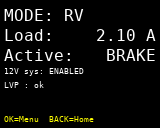
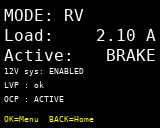
UI: Home adds OCP line; OCP modal OK-only; Telemetry adds ocp flag; docs/screens updated

Changed region(s): [[0.2188, 0.75, 0.4062, 0.8125], [0.0, 0.75, 0.125, 0.8125]]

diff --git a/scripts/generate_screens.py b/scripts/generate_screens.py
@@ -78,6 +78,7 @@ def save(img: Image.Image, name: str, scale: int = 1):
 
 def screen_home(mode: str = 'HD', load_a: float = 0.00, active: str = 'RF',
                 sys12_enabled: bool = True, lvp_bypass: bool = False, lvp_latched: bool = False,
+                ocp_latched: bool = False,
                 fault: str | None = None, focus_mode: bool = False):
     img = Image.new('RGB', (W, H), COLORS['BLACK'])
     d = ImageDraw.Draw(img)
@@ -89,6 +90,7 @@ def screen_home(mode: str = 'HD', load_a: float = 0.00, active: str = 'RF',
     # InputV removed; place 12V directly below Active
     y12, h12 = yActive + hActive + 2, 12
     yLvp, hLvp = y12 + h12 + 2, 12
+    yOcp, hOcp = yLvp + hLvp + 2, 12
     yHint, hHint = 114, 12
 
     # MODE line (size=2) with optional focus highlight
@@ -116,6 +118,9 @@ def screen_home(mode: str = 'HD', load_a: float = 0.00, active: str = 'RF',
         draw_text(img, d, 4, yLvp, "LVP : BYPASS", color='YELLOW', size=1)
     else:
         draw_text(img, d, 4, yLvp, f"LVP : {'ACTIVE' if lvp_latched else 'ok'}", color='WHITE', size=1)
+
+    # OCP status
+    draw_text(img, d, 4, yOcp, f"OCP : {'ACTIVE' if ocp_latched else 'ok'}", size=1)
 
     # Footer
     draw_text(img, d, 4, yHint, "OK=Menu  BACK=Home", color='YELLOW', size=1)
@@ -200,13 +205,13 @@ def screen_simple_title_body(title: str, lines: list[str]):
 
 def generate_all(scale: int = 1):
     # Home (HD)
-    save(screen_home(mode='HD', load_a=0.00, active='RF', sys12_enabled=True, lvp_bypass=False, lvp_latched=False), 'home_hd_idle', scale)
-    save(screen_home(mode='HD', load_a=3.42, active='LEFT', sys12_enabled=True, lvp_bypass=False, lvp_latched=False), 'home_hd_left', scale)
-    save(screen_home(mode='HD', load_a=1.02, active='BRAKE', sys12_enabled=True, lvp_bypass=False, lvp_latched=True), 'home_hd_brake_lvp', scale)
+    save(screen_home(mode='HD', load_a=0.00, active='RF', sys12_enabled=True, lvp_bypass=False, lvp_latched=False, ocp_latched=False), 'home_hd_idle', scale)
+    save(screen_home(mode='HD', load_a=3.42, active='LEFT', sys12_enabled=True, lvp_bypass=False, lvp_latched=False, ocp_latched=False), 'home_hd_left', scale)
+    save(screen_home(mode='HD', load_a=1.02, active='BRAKE', sys12_enabled=True, lvp_bypass=False, lvp_latched=True, ocp_latched=False), 'home_hd_brake_lvp', scale)
 
     # Home (RV) with MODE focus
-    save(screen_home(mode='RV', load_a=0.55, active='RF', sys12_enabled=True, lvp_bypass=False, lvp_latched=False, focus_mode=True), 'home_rv_idle_focus', scale)
-    save(screen_home(mode='RV', load_a=2.10, active='BRAKE', sys12_enabled=True, lvp_bypass=False, lvp_latched=False), 'home_rv_brake', scale)
+    save(screen_home(mode='RV', load_a=0.55, active='RF', sys12_enabled=True, lvp_bypass=False, lvp_latched=False, ocp_latched=False, focus_mode=True), 'home_rv_idle_focus', scale)
+    save(screen_home(mode='RV', load_a=2.10, active='BRAKE', sys12_enabled=True, lvp_bypass=False, lvp_latched=False, ocp_latched=True), 'home_rv_brake', scale)
 
     # Menu
     save(screen_menu(selected=0), 'menu_top', scale)
@@ -242,14 +247,14 @@ def generate_all(scale: int = 1):
     save(screen_simple_title_body('Scan Result', ['Relay 1: OK', 'Relay 2: OK', 'Relay 3: OK']), 'scan_result', scale)
     save(screen_simple_title_body('Scan Done', ['All relays tested.']), 'scan_done', scale)
 
-    # OCP modal (approximate)
+    # OCP modal (approximate; OK-only)
     img = Image.new('RGB', (W, H), COLORS['BLACK'])
     d = ImageDraw.Draw(img)
     d.rectangle([8, 20, W-8, 92], outline=COLORS['YELLOW'], width=1)
     draw_text(img, d, 16, 28, 'Overcurrent', color='YELLOW', size=1)
     draw_text(img, d, 16, 44, 'OCP latched. Press OK', size=1)
     draw_text(img, d, 16, 56, 'to acknowledge.', size=1)
-    draw_text(img, d, 16, 76, 'OK=Acknowledge  BACK=Cancel', color='WHITE', size=1)
+    draw_text(img, d, 16, 76, 'OK=Clear latch', color='WHITE', size=1)
     save(img, 'ocp_modal', scale)
 
 

diff --git a/src/display/DisplayUI.cpp b/src/display/DisplayUI.cpp
@@ -268,6 +268,7 @@ void DisplayUI::showStatus(const Telemetry& t){
   // Removed InputV: place 12V line directly below Active
   const int y12     = yActive + hActive + 2; const int h12 = 12;
   const int yLvp    = y12 + h12 + 2;  const int hLvp    = 12;
+  const int yOcp    = yLvp + hLvp + 2; const int hOcp    = 12;
   const int yHint   = 114;  const int hHint   = 12;
 
   static bool s_inited = false;
@@ -338,6 +339,12 @@ void DisplayUI::showStatus(const Telemetry& t){
       _tft->setCursor(4, yLvp); _tft->print("LVP : ");
       _tft->print(t.lvpLatched? "ACTIVE":"ok");
     }
+
+    // Line 6: OCP status (new, separate line)
+    _tft->setTextColor(ST77XX_WHITE, ST77XX_BLACK);
+    _tft->setCursor(4, yOcp);
+    _tft->print("OCP : ");
+    _tft->print(t.ocpLatched ? "ACTIVE" : "ok");
     // (MODE line already drawn at top)
 
   // Footer
@@ -431,6 +438,16 @@ void DisplayUI::showStatus(const Telemetry& t){
       }
       prevBypass = bypass;
     }
+  }
+
+  // OCP status changed?
+  if (t.ocpLatched != _last.ocpLatched) {
+    _tft->fillRect(0, yOcp-2, W, hOcp, ST77XX_BLACK);
+    _tft->setTextSize(1);
+    _tft->setTextColor(ST77XX_WHITE, ST77XX_BLACK);
+    _tft->setCursor(4, yOcp);
+    _tft->print("OCP : ");
+    _tft->print(t.ocpLatched ? "ACTIVE" : "ok");
   }
 
   // Fault ticker redraw if mask changed
@@ -570,6 +587,7 @@ void DisplayUI::tick(const Telemetry& t){
         (isnan(t.loadA) != isnan(_last.loadA)) ||
         (!isnan(t.loadA) && fabsf(t.loadA - _last.loadA) > 0.02f) ||
         (t.lvpLatched != _last.lvpLatched) ||
+        (t.ocpLatched != _last.ocpLatched) ||
         _needRedraw
       );
 
@@ -820,11 +838,11 @@ bool DisplayUI::protectionAlarm(const char* title, const char* line1, const char
 
   _tft->fillRect(0, 108, 160, 20, ST77XX_BLACK);
   _tft->setTextColor(ST77XX_YELLOW, ST77XX_BLACK);
-  _tft->setCursor(6, 112); _tft->print("OK=Clear latch   BACK=Ignore");
+  _tft->setCursor(6, 112); _tft->print("OK=Clear latch");
 
   while (true) {
     if (okPressed())   { g_forceHomeFull = true; return true; }
-    if (backPressed()) { g_forceHomeFull = true; return false; }
+    // BACK no longer cancels; ignore until OK is pressed
     delay(10);
   }
 }

diff --git a/src/main.cpp b/src/main.cpp
@@ -312,9 +312,11 @@ void loop() {
 
   // Protection logic
   protector.tick(tele.srcV, tele.loadA, millis());
-  tele.lvpLatched = protector.isLvpLatched() || protector.isOcpLatched();
+  // Track latches separately for UI clarity
+  tele.lvpLatched = protector.isLvpLatched();
+  tele.ocpLatched = protector.isOcpLatched();
   // Buzzer fault pattern tick (priority over one-shot)
-  Buzzer::tick(tele.lvpLatched, millis());
+  Buzzer::tick(tele.lvpLatched || tele.ocpLatched, millis());
 
   // OCP modal
   static bool prevOcp = false;
@@ -324,11 +326,11 @@ void loop() {
   prevOcp = ocpNow;
 
   if (needOcpAck) {
-    bool clear = ui->protectionAlarm("OCP TRIPPED", "Over-current detected.", "Press OK to clear latch");
-    if (clear) {
-      protector.clearLatches();
-      tele.lvpLatched = false;
-    }
+    // Modal is now OK-only; returns after OK pressed
+    (void)ui->protectionAlarm("OCP TRIPPED", "Over-current detected.", "Press OK to clear latch");
+    protector.clearLatches();
+    tele.lvpLatched = false;
+    tele.ocpLatched = false;
     needOcpAck = false;
     ui->showStatus(tele);
   }

diff --git a/src/telemetry.hpp b/src/telemetry.hpp
@@ -3,4 +3,5 @@ struct Telemetry {
   float srcV = 0.0f;
   float loadA = 0.0f;
   bool  lvpLatched = false;
+  bool  ocpLatched = false;
 };
